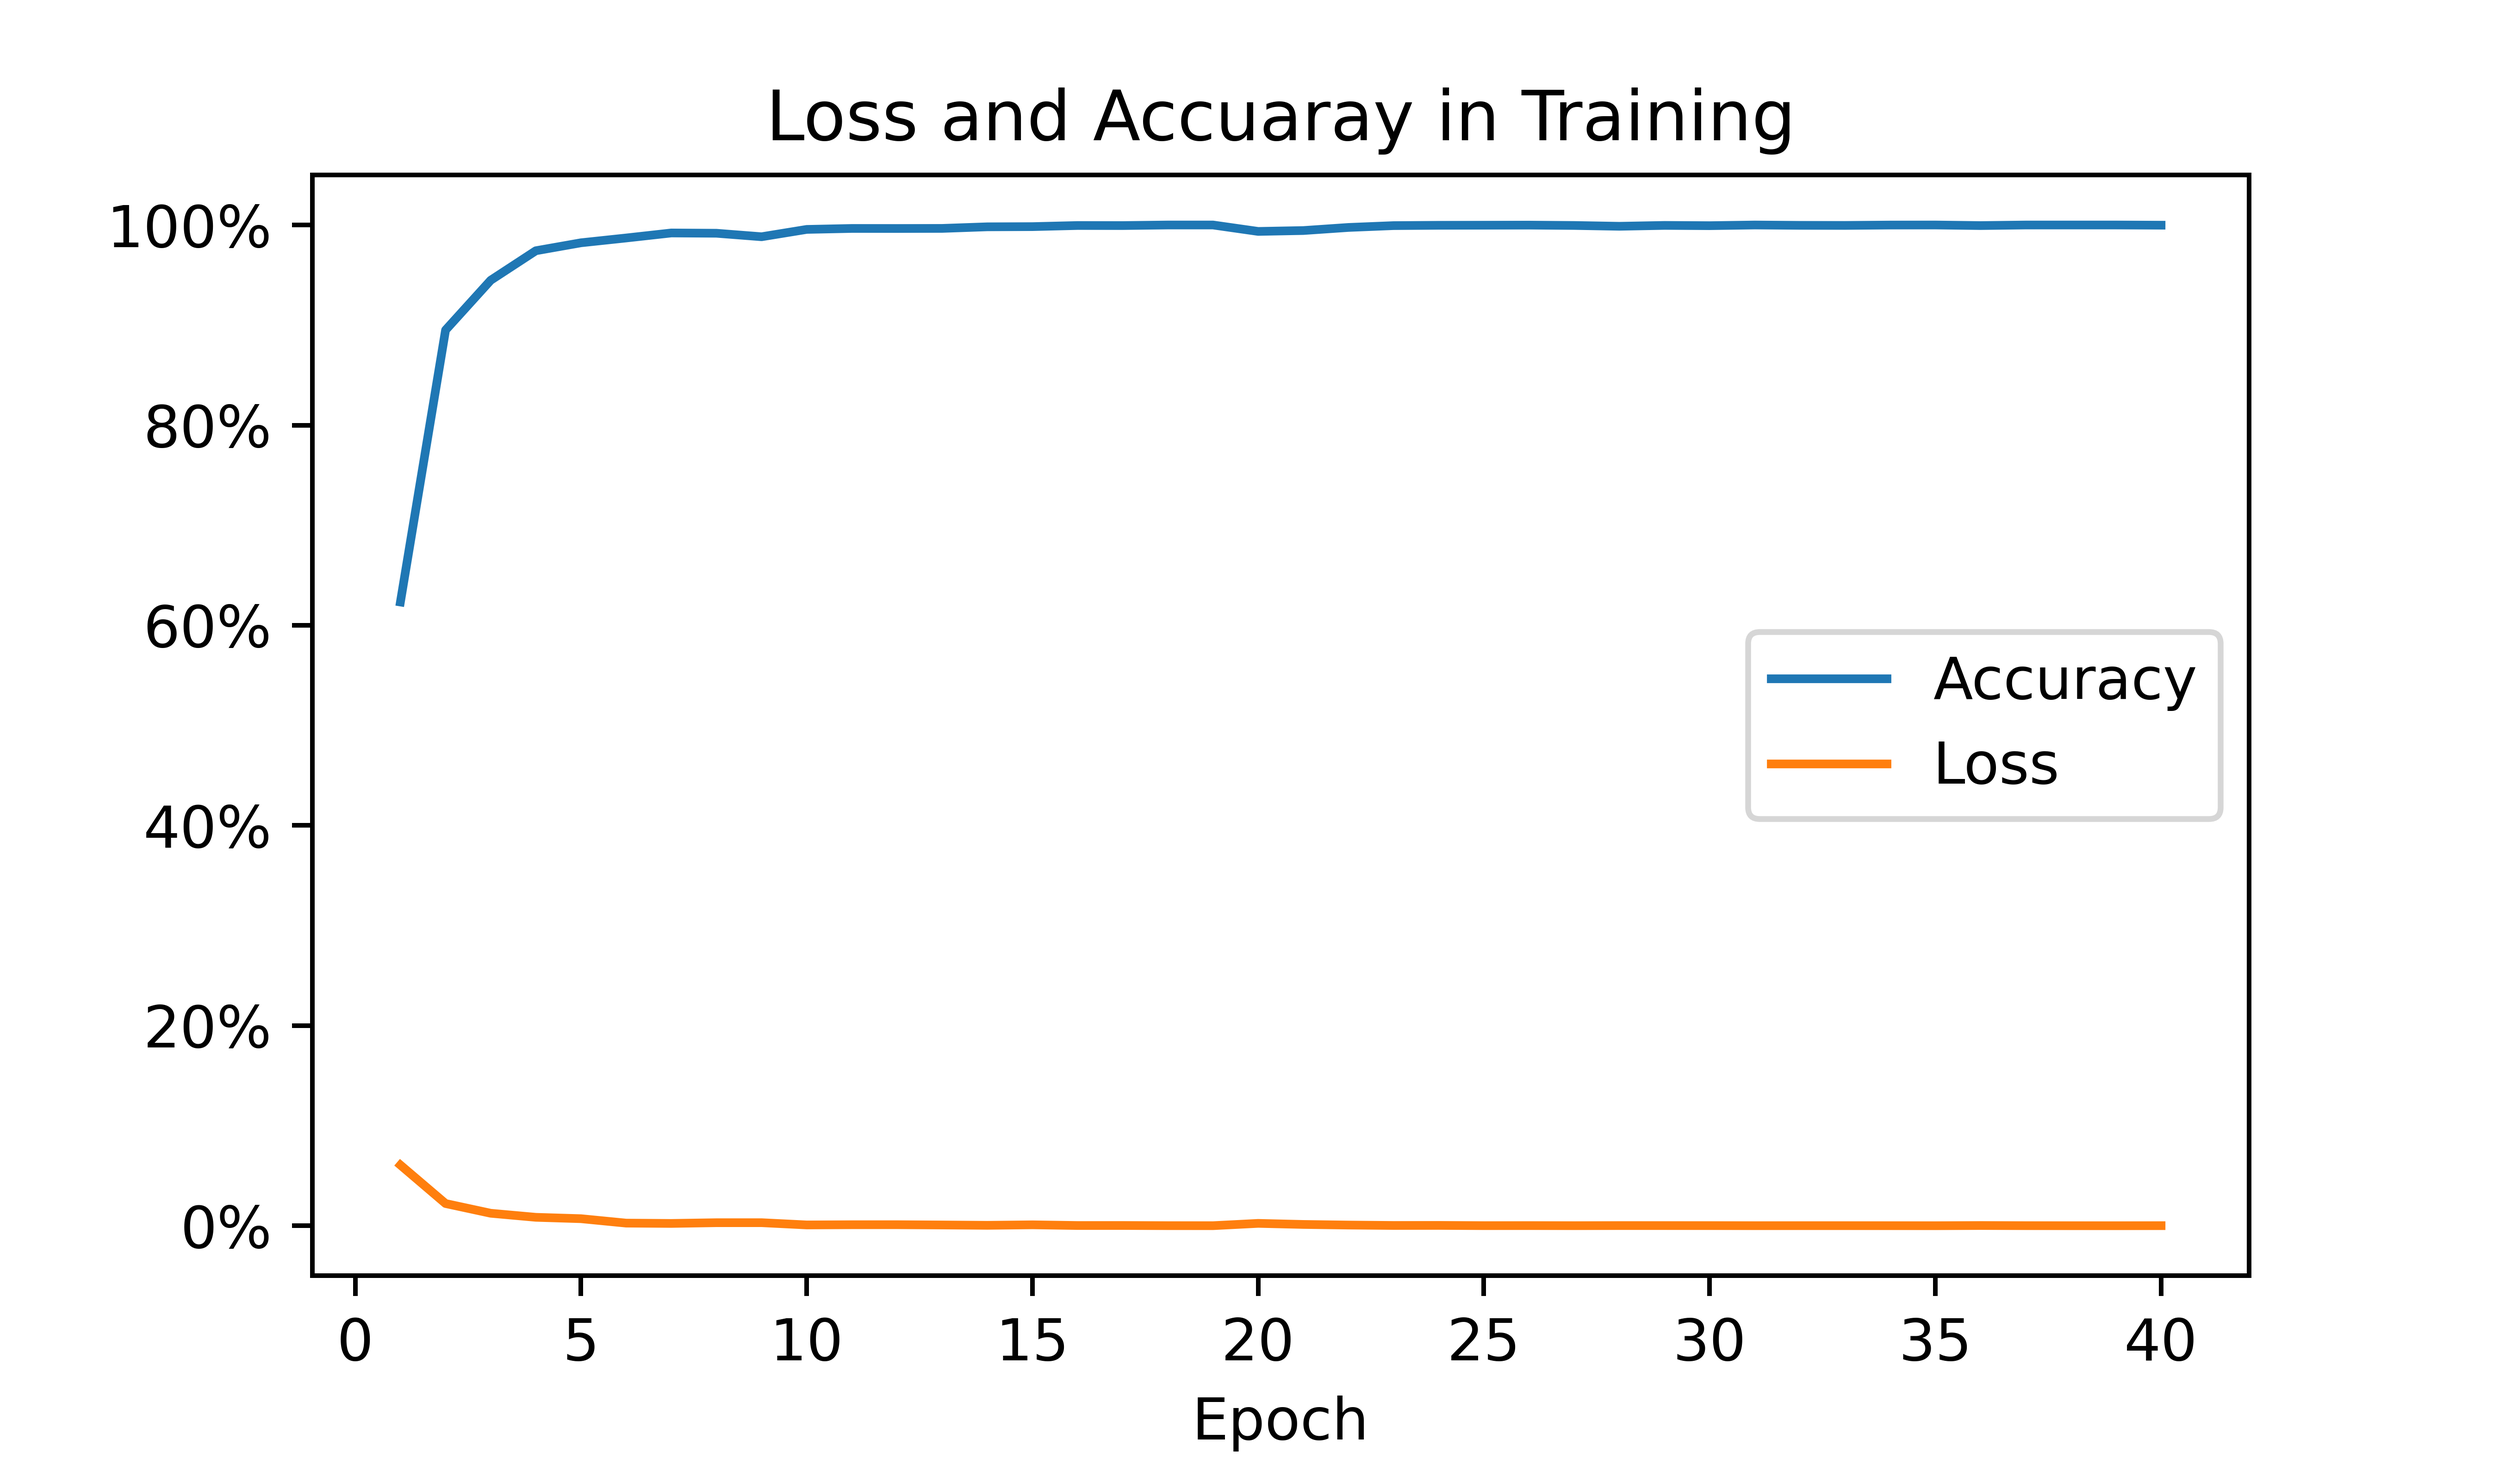
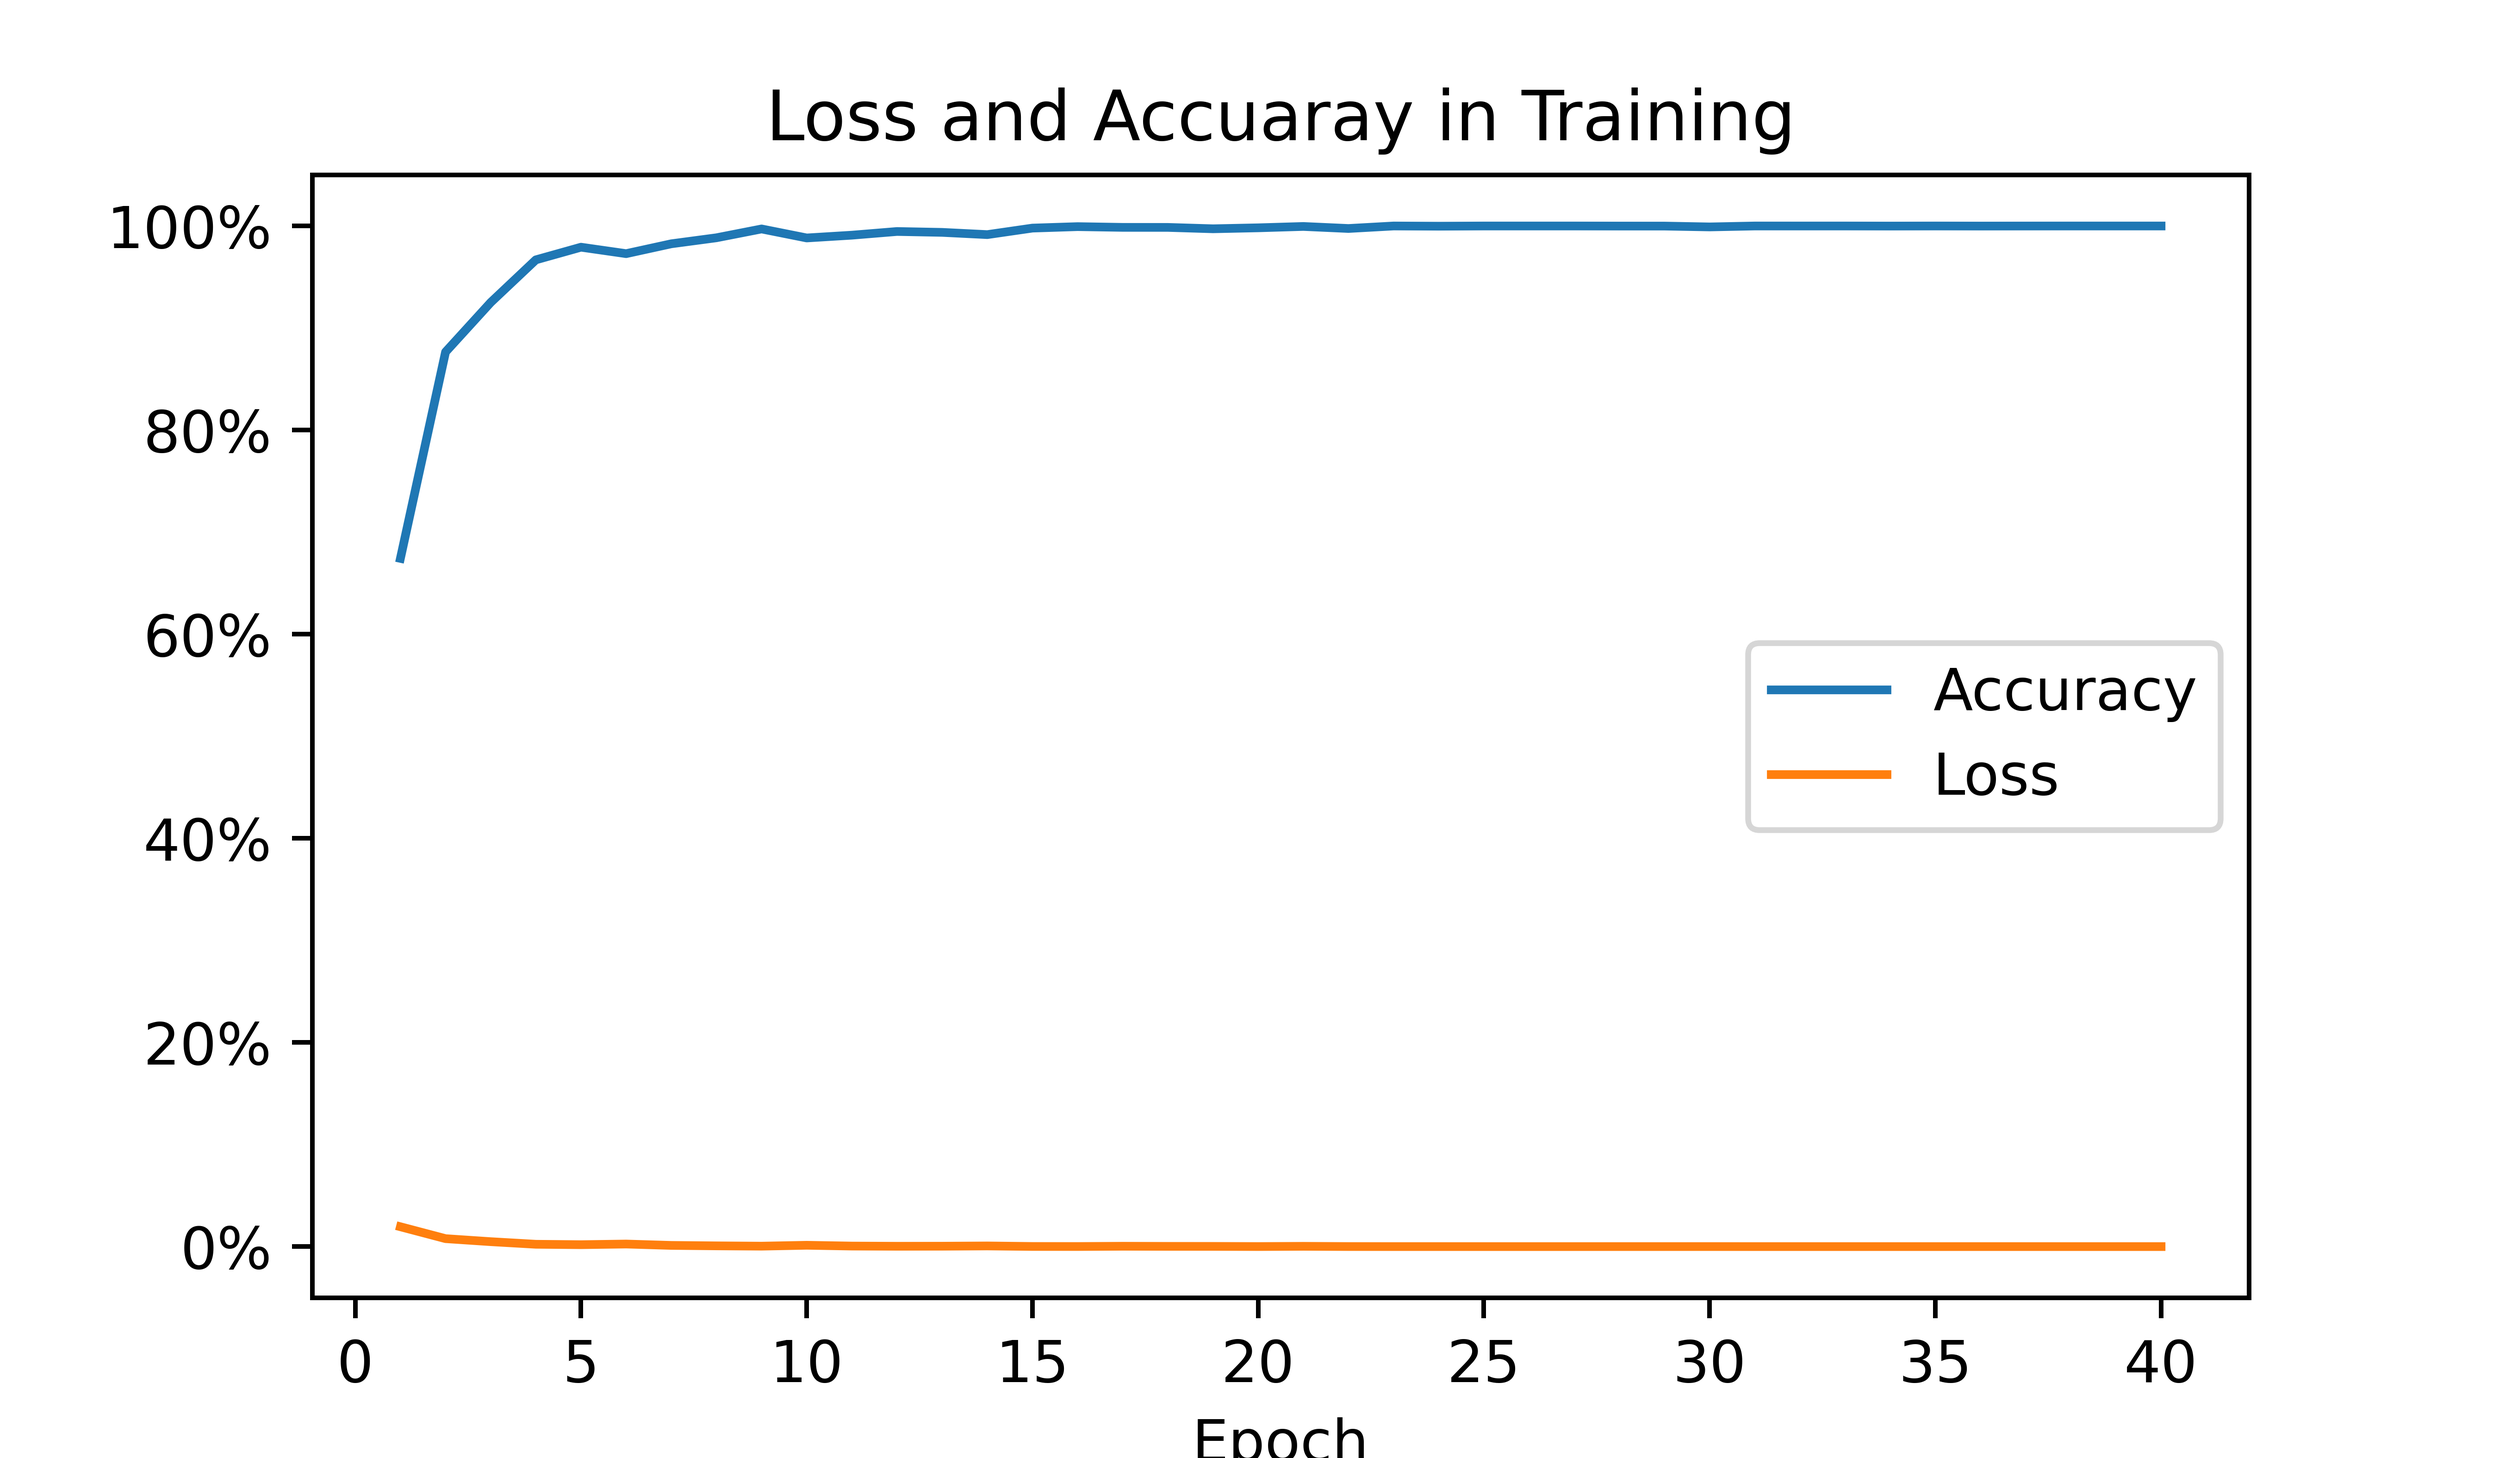
update

diff --git a/Loss_Acc_Visualization.py b/Loss_Acc_Visualization.py
@@ -11,7 +11,7 @@ with open("./parameter.json", 'r') as file_obj:
     index_size = parameter["index_size"]
     batch_size = parameter["batch_size"]
     
-with open("./result/train.log") as file_obj:
+with open("./result/train_torch_1.4.0.log") as file_obj:
     buffer = file_obj.readlines()
 
 for index in range(len(buffer)):
